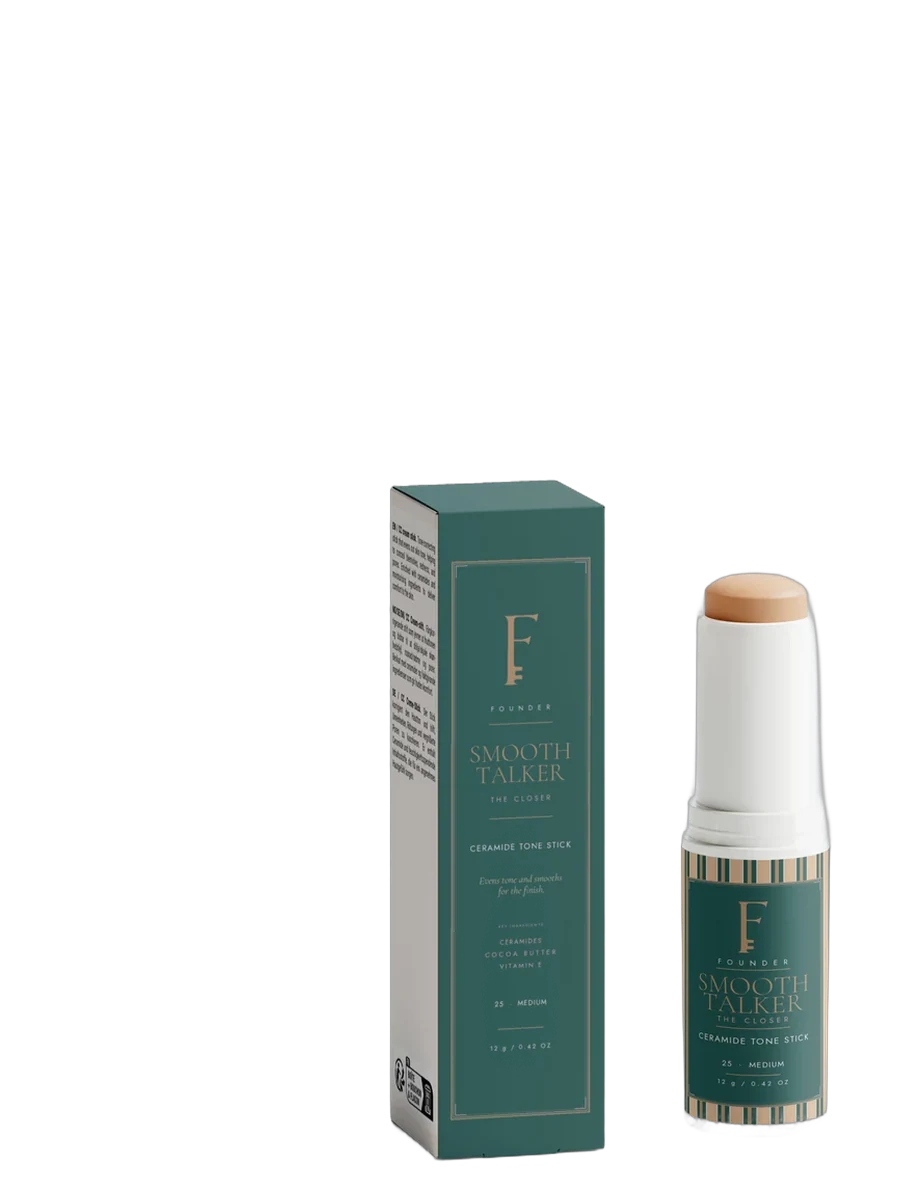
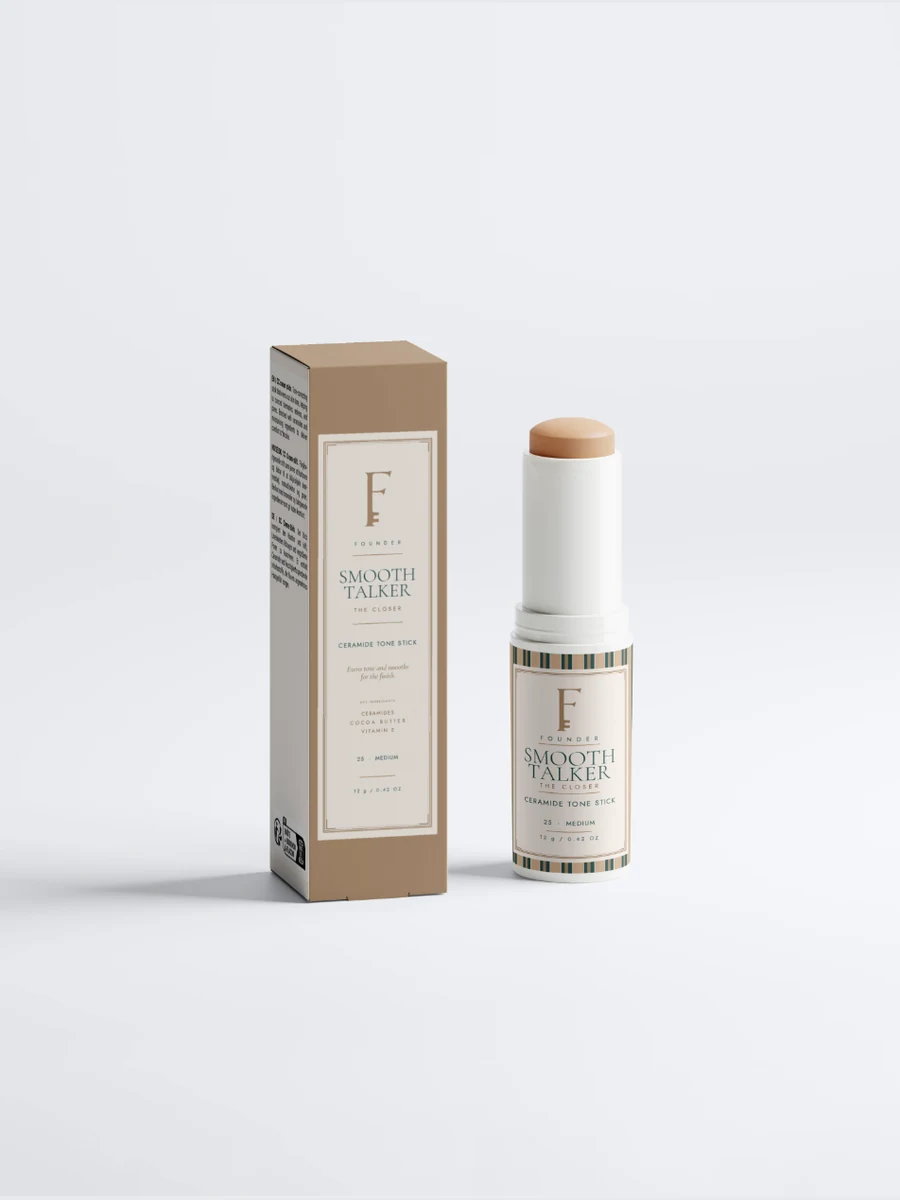
Smooth Talker goes brass on the storefront
The three stick cartons moved to Antique Gold with a cream cartouche, and
each one now names its shade — the fix for all three sharing one unmarked
carton. Every stick image on the site still showed the green pack.

Replaced from the new Selfnamed renders:
  -cut / -pack / -card    the 25 MEDIUM packshot, in its three slots
  -shades-pack            the shade line-up, rebuilt as one photograph
                          rather than three tiled sweeps: each product cut
                          on an edge mask and stood on a shared baseline,
                          so the three shades compare instead of collide
  -{20,25,35}-hero        the per-shade product-page heroes

The per-shade heroes are a deliberate trade. They were arched-alcove
scenes and they are now plain packshots, because the alcove versions had
the green carton baked in and a shade selector showing the wrong pack
colour is worse than one that loses its set. Regenerating the alcoves in
brass would get both back.

Alt text follows throughout: no stick copy still says Founder Green.

Shopify updated in the same pass — three brass renders in, three green
removed.

Claude-Session: https://claude.ai/code/session_01Ur261Wsau2RympRHJCG9oK

diff --git a/src/lib/nextMove.ts b/src/lib/nextMove.ts
@@ -277,7 +277,7 @@ export const NEXT_MOVE: NextMoveProduct[] = [
         variantId: "47417855574185",
         hero: {
           src: "/products/smooth-talker-20-hero.webp",
-          alt: "FOUNDER Smooth Talker Ceramide Tone Stick in 20 LIGHT and its carton in a lit arched alcove in a Founder Green panelled wall, the stick wrapped in sand-toned stripes matching the shade inside it.",
+          alt: "FOUNDER Smooth Talker Ceramide Tone Stick in 20 LIGHT beside its brass carton, both carrying a Champagne Cream cartouche with a gold F-key crest, the stick wrapped in sand-toned stripes matching the shade inside it.",
         },
       },
       {
@@ -287,7 +287,7 @@ export const NEXT_MOVE: NextMoveProduct[] = [
         variantId: "47417855606953",
         hero: {
           src: "/products/smooth-talker-25-hero.webp",
-          alt: "FOUNDER Smooth Talker Ceramide Tone Stick in 25 MEDIUM and its carton in a lit arched alcove in a Founder Green panelled wall, the stick wrapped in tan stripes matching the shade inside it.",
+          alt: "FOUNDER Smooth Talker Ceramide Tone Stick in 25 MEDIUM beside its brass carton, both carrying a Champagne Cream cartouche with a gold F-key crest, the stick wrapped in tan stripes matching the shade inside it.",
         },
       },
       {
@@ -297,7 +297,7 @@ export const NEXT_MOVE: NextMoveProduct[] = [
         variantId: "47417855639721",
         hero: {
           src: "/products/smooth-talker-35-hero.webp",
-          alt: "FOUNDER Smooth Talker Ceramide Tone Stick in 35 DEEP and its carton in a lit arched alcove in a Founder Green panelled wall, the stick wrapped in deep brown stripes matching the shade inside it.",
+          alt: "FOUNDER Smooth Talker Ceramide Tone Stick in 35 DEEP beside its brass carton, both carrying a Champagne Cream cartouche with a gold F-key crest, the stick wrapped in deep brown stripes matching the shade inside it.",
         },
       },
     ],
@@ -311,14 +311,14 @@ export const NEXT_MOVE: NextMoveProduct[] = [
        the default shade so nothing can render empty. */
     detailHero: {
       src: "/products/smooth-talker-25-hero.webp",
-      alt: "FOUNDER Smooth Talker Ceramide Tone Stick in 25 MEDIUM beside its Founder Green carton, the stick wrapped in stripes the colour of the shade inside it.",
+      alt: "FOUNDER Smooth Talker Ceramide Tone Stick in 25 MEDIUM beside its brass carton, the stick wrapped in stripes the colour of the shade inside it.",
     },
     cta: "Make your move",
     stripes: { a: "var(--color-champagne)", b: "var(--color-founder-green)" },
     ink: "var(--color-founder-green)",
     pack: {
       src: "/products/smooth-talker-shades-pack.webp",
-      alt: "The three Smooth Talker shades side by side — 20 Light, 25 Medium and 35 Deep — each stick wrapped in stripes the colour of the shade inside it.",
+      alt: "The three Smooth Talker shades side by side — 20 Light, 25 Medium and 35 Deep — each brass carton naming its shade, each stick wrapped in stripes the colour of the shade inside it.",
     },
     /* The family shot leads now: a card showing one shade of a three-shade
        product tells a customer the wrong thing before she ever clicks. */

diff --git a/src/app/page.tsx b/src/app/page.tsx
@@ -125,7 +125,7 @@ const LINE = [
     name: bySlug["smooth-talker"].name,
     descriptor: `${bySlug["smooth-talker"].category} · ${bySlug["smooth-talker"].size} · 3 shades`,
     image: "/products/smooth-talker-cut.webp",
-    alt: "Smooth Talker: the tinted stick in 25 Medium and its carton, Founder Green with tan stripes.",
+    alt: "Smooth Talker: the tinted stick in 25 Medium and its brass carton, with a cream cartouche and gold crest.",
     href: "/products/smooth-talker",
     state: "In stock · 3 shades",
     action: `Shop · ${formatPrice(bySlug["smooth-talker"].price)}`,
